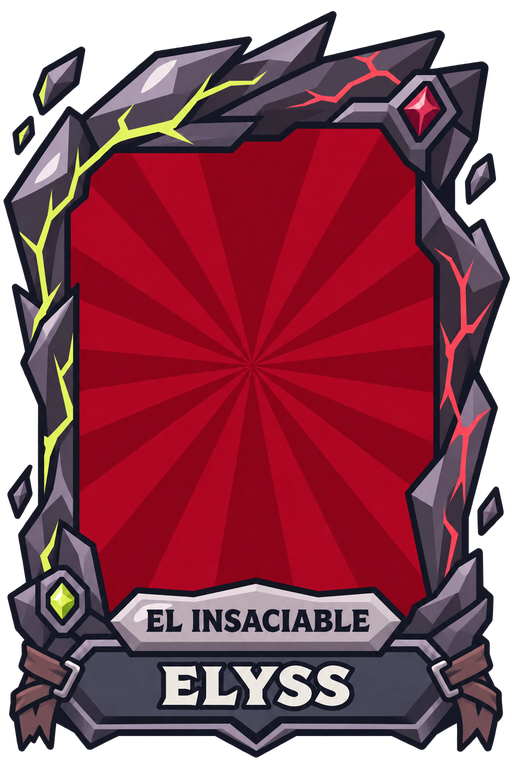
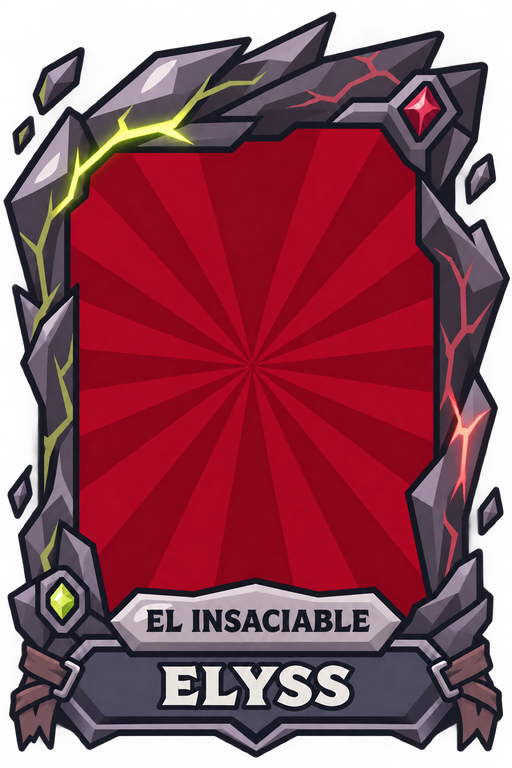
Marcos de las 9 unidades que faltaban y marcos animados de Elyss y Nul
Claude-Session: https://claude.ai/code/session_01JNP7QCwsBCjLSMGndzwo2W

diff --git a/docs/index.html b/docs/index.html
@@ -7940,7 +7940,7 @@ const MARCOS = {
   ninja: { st: [16, 33, 68, 46], z: 1.12 },
   odo: { st: [16.4, 20.1, 66.9, 54.8] },
   kubi: { st: [15.8, 35.5, 67.9, 50.1] },
-  imparable: { st: [15.9, 17.7, 66.7, 61.5], dy: -7 },
+  imparable: { st: [15.8, 17.7, 66.8, 61.5], dy: -7, frames: 5, anim: 'ciclo' },
   desencadenado: { st: [18.3, 36.0, 63.1, 51.2], z: 2.1, dx: -25, dy: 7, clip: true },
   tercio: { st: [13.2, 28.7, 73.2, 49.2], z: 1.15 },
   fraile: { st: [17.3, 16.2, 65.2, 59.7], z: 1.01 },
@@ -7962,6 +7962,15 @@ const MARCOS = {
   grises: { st: [14.6, 27.7, 68.3, 55.5] },
   ignis: { st: [17.2, 33.2, 65.5, 55.7] },
   nivea: { st: [16.4, 26.6, 67.1, 52.8] },
+  anubek: { st: [14.4, 26.6, 71.0, 53.8] },
+  rhea: { st: [18.4, 22.2, 63.1, 51.1] },
+  abaddon: { st: [13.0, 22.2, 73.7, 55.1] },
+  nul: { st: [16.8, 23.2, 66.2, 54.3], frames: 6, anim: 'ciclo' },
+  kaiju: { st: [17.2, 21.4, 65.4, 50.4] },
+  morgana: { st: [17.5, 29.0, 64.8, 50.3] },
+  tormund: { st: [17.3, 33.2, 65.2, 53.3] },
+  aurelion: { st: [20.4, 20.2, 59.2, 51.5] },
+  torque: { st: [18.4, 42.1, 63.2, 46.8] },
 };
 const BARRA_RAR = { comun: 'comun', poco: 'poco', rara: 'rara', epica: 'epica', legendaria: 'legendaria', ascendida: 'ascendida' };
 const GAL = { on: false, sc: null, u: new Map() };
@@ -8037,6 +8046,7 @@ setInterval(() => {
     const M = MARCOS[k]; if (!M.frames) continue;
     let i;
     if (M.anim === 'sombra') { const n = M.frames, q = Math.floor(MARCO_ANIM.t / 3) % (2 * n - 2); i = q < n ? q : 2 * n - 2 - q; }
+    else if (M.anim === 'ciclo') i = Math.floor(MARCO_ANIM.t / 3) % M.frames;   // Elyss (grietas que se encienden) y Nul (el aro gira)
     else { const q = MARCO_ANIM.t % 14; i = q < 3 ? 1 + (Math.floor(MARCO_ANIM.t / 14) + q) % (M.frames - 1) : 0; }
     if (M.cur === i) continue; M.cur = i;
     document.querySelectorAll('[data-marco="' + k + '"]').forEach(e => { e.style.backgroundImage = marcoSrc(k, i); });

diff --git a/prototipos/batalla/galeria.js b/prototipos/batalla/galeria.js
@@ -14,7 +14,7 @@ const MARCOS = {
   ninja: { st: [16, 33, 68, 46], z: 1.12 },
   odo: { st: [16.4, 20.1, 66.9, 54.8] },
   kubi: { st: [15.8, 35.5, 67.9, 50.1] },
-  imparable: { st: [15.9, 17.7, 66.7, 61.5], dy: -7 },
+  imparable: { st: [15.8, 17.7, 66.8, 61.5], dy: -7, frames: 5, anim: 'ciclo' },
   desencadenado: { st: [18.3, 36.0, 63.1, 51.2], z: 2.1, dx: -25, dy: 7, clip: true },
   tercio: { st: [13.2, 28.7, 73.2, 49.2], z: 1.15 },
   fraile: { st: [17.3, 16.2, 65.2, 59.7], z: 1.01 },
@@ -36,6 +36,15 @@ const MARCOS = {
   grises: { st: [14.6, 27.7, 68.3, 55.5] },
   ignis: { st: [17.2, 33.2, 65.5, 55.7] },
   nivea: { st: [16.4, 26.6, 67.1, 52.8] },
+  anubek: { st: [14.4, 26.6, 71.0, 53.8] },
+  rhea: { st: [18.4, 22.2, 63.1, 51.1] },
+  abaddon: { st: [13.0, 22.2, 73.7, 55.1] },
+  nul: { st: [16.8, 23.2, 66.2, 54.3], frames: 6, anim: 'ciclo' },
+  kaiju: { st: [17.2, 21.4, 65.4, 50.4] },
+  morgana: { st: [17.5, 29.0, 64.8, 50.3] },
+  tormund: { st: [17.3, 33.2, 65.2, 53.3] },
+  aurelion: { st: [20.4, 20.2, 59.2, 51.5] },
+  torque: { st: [18.4, 42.1, 63.2, 46.8] },
 };
 const BARRA_RAR = { comun: 'comun', poco: 'poco', rara: 'rara', epica: 'epica', legendaria: 'legendaria', ascendida: 'ascendida' };
 const GAL = { on: false, sc: null, u: new Map() };
@@ -111,6 +120,7 @@ setInterval(() => {
     const M = MARCOS[k]; if (!M.frames) continue;
     let i;
     if (M.anim === 'sombra') { const n = M.frames, q = Math.floor(MARCO_ANIM.t / 3) % (2 * n - 2); i = q < n ? q : 2 * n - 2 - q; }
+    else if (M.anim === 'ciclo') i = Math.floor(MARCO_ANIM.t / 3) % M.frames;   // Elyss (grietas que se encienden) y Nul (el aro gira)
     else { const q = MARCO_ANIM.t % 14; i = q < 3 ? 1 + (Math.floor(MARCO_ANIM.t / 14) + q) % (M.frames - 1) : 0; }
     if (M.cur === i) continue; M.cur = i;
     document.querySelectorAll('[data-marco="' + k + '"]').forEach(e => { e.style.backgroundImage = marcoSrc(k, i); });

diff --git a/DISENO.md b/DISENO.md
@@ -590,7 +590,7 @@ Arte en bruto en `arte/zero/`; piezas del juego en `docs/img/zero/`.
 
 - Cada unidad tiene su tarjeta: marco, nombre y epíteto, coste (muslo) y, en medio, la unidad de verdad en reposo con su animación.
 - Debajo, la barra del color de su rareza (gris común, verde poco común, azul rara, morado épica, naranja legendaria, rojo ascendida): nivel en el círculo, copias para la siguiente punta en la barra y el escudo de rango a la derecha.
-- Marcos propios (img/marcos/<unidad>.png, 2:3, con el nombre dibujado y el hueco vacío): se registran en `MARCOS` (galeria.js) con el hueco de la unidad y el sitio del coste: el muslo siempre dentro del hueco, en su esquina de arriba a la derecha, sin pisar el marco. Ya tienen marco 28 unidades; faltan Torque, Anubek, Rhea, Morgana, Tormund, Abaddon, Aurelion, Kaiju Tomo, Nul y X-9. Marcos animados: Zero (5 dibujos, la sombra se desplaza en vaivén) y Rhysida (4: el limpio y parpadeos de interferencia); el hueco de cada marco se mide solo sobre los rayos del fondo y cada figura puede agrandarse (z) o moverse (dx, dy); el muslo del coste va en la esquina de arriba a la izquierda de toda carta, simétrico a la flecha de ascenso; en Tropas, Rhysida va turnando las skins que tengas; las demás llevan el provisional con rayos del color de su rareza.
+- Marcos propios (img/marcos/<unidad>.png, 2:3, con el nombre dibujado y el hueco vacío): se registran en `MARCOS` (galeria.js) con el hueco de la unidad y el sitio del coste: el muslo siempre dentro del hueco, en su esquina de arriba a la derecha, sin pisar el marco. Ya tienen marco 37 unidades; falta X-9. Marcos animados: Zero (5 dibujos, la sombra se desplaza en vaivén), Rhysida (4: el limpio y parpadeos de interferencia), Elyss (5, las grietas se encienden por turnos) y Nul (6, el aro gira); el hueco de cada marco se mide solo sobre los rayos del fondo y cada figura puede agrandarse (z) o moverse (dx, dy); el muslo del coste va en la esquina de arriba a la izquierda de toda carta, simétrico a la flecha de ascenso; en Tropas, Rhysida va turnando las skins que tengas; las demás llevan el provisional con rayos del color de su rareza.
 - La barra granate con dorado es solo para los héroes ascendidos a S+.
 - Técnica: las tarjetas son HTML; una segunda escena de Phaser ("galeria") dibuja las unidades sobre el lienzo, que en esta pestaña pasa por encima de la pantalla sin recibir toques, y la escena de la batalla se oculta.
 - Fuera el diseño viejo de cartas (marcos por rareza img/esc/marco_*.png, borrados): en toda la app (mano de batalla, mazo, ficha, premios, tienda, cuartel…) las cartas son la tarjeta nueva en pequeño, con el retrato de la unidad de verdad (una foto en reposo que se saca al arrancar).
